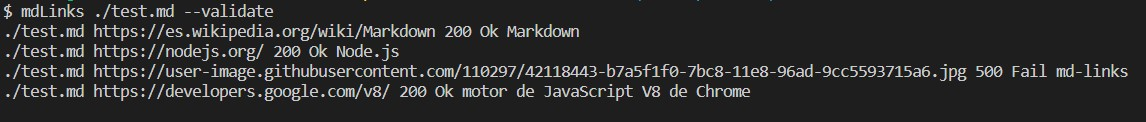
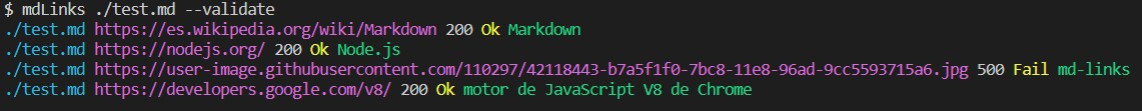
Uso de biblioteca colors para darle color a node

Changed region(s): [[0.0, 0.1892, 1.0, 0.8919], [0.0, 0.0, 0.2452, 0.1622]]

diff --git a/index.js b/index.js
@@ -3,6 +3,7 @@ const { resolve } = require("path");
 const path = require("path");
 const markdownLinkExtractor = require("markdown-link-extractor");
 const linkCheck = require("link-check");
+var colors = require('colors');
 
 //Esta constante guarda la ruta que se ingrese por consola
 const pathUser = process.argv[2];
@@ -118,7 +119,7 @@ const mdLinks = (pathUser, options) => {
       })
       .then((res) => {
         if((options.validate !== true) && (options.stats !== true)) {
-          resolve(res.map((e)=> `${e.file} ${e.href} ${e.text}\n`).join(""));
+          resolve(res.map((e)=> `${e.file.brightCyan} ${e.href.brightMagenta} ${e.text.brightGreen}\n`).join(""));
         } else if ((options.validate === true) && (options.stats === true)) {
           resolve(validateAndStats(res,linkStats(res)));
         } 
@@ -126,7 +127,7 @@ const mdLinks = (pathUser, options) => {
           resolve(`Total: ${res.total}\nUnique: ${res.unique}`);
         }
         else {
-          resolve(res.map((e)=> `${e.file} ${e.href} ${e.statusCode} ${e.status} ${e.text}\n`).join(""));
+          resolve(res.map((e)=> `${e.file.brightCyan} ${e.href.brightMagenta} ${e.statusCode} ${e.status.brightYellow} ${e.text.brightGreen}\n`).join(""));
         }
       })
       .catch((error) => {
